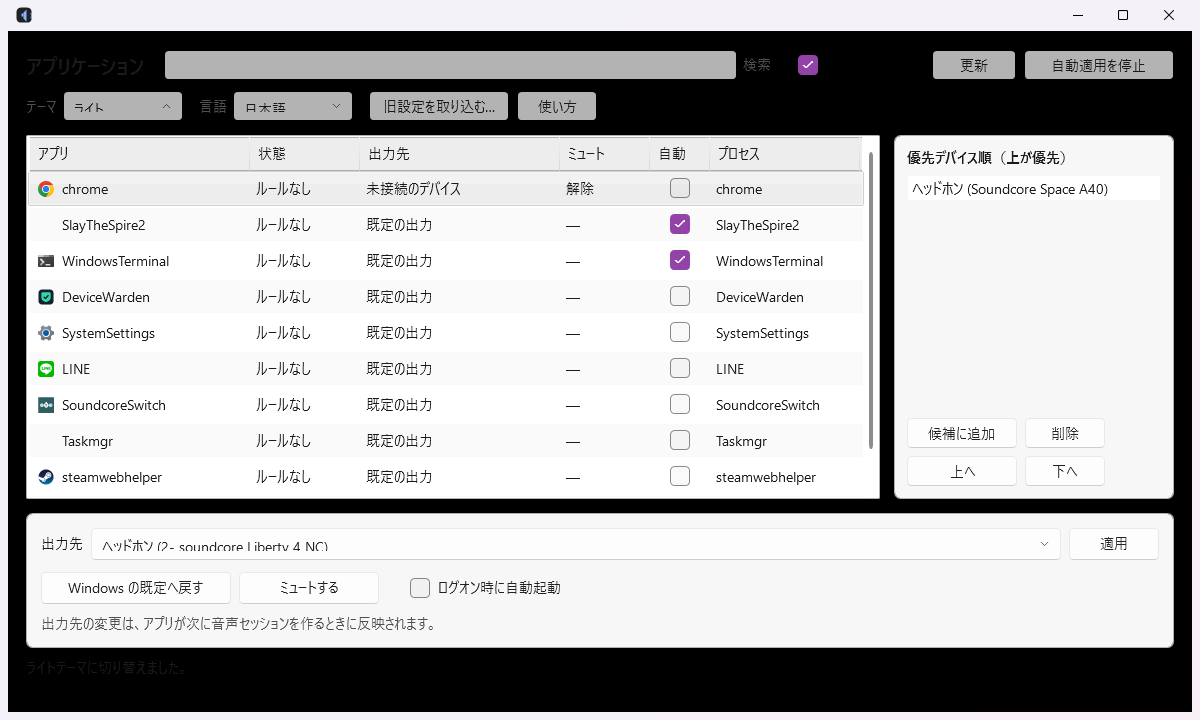
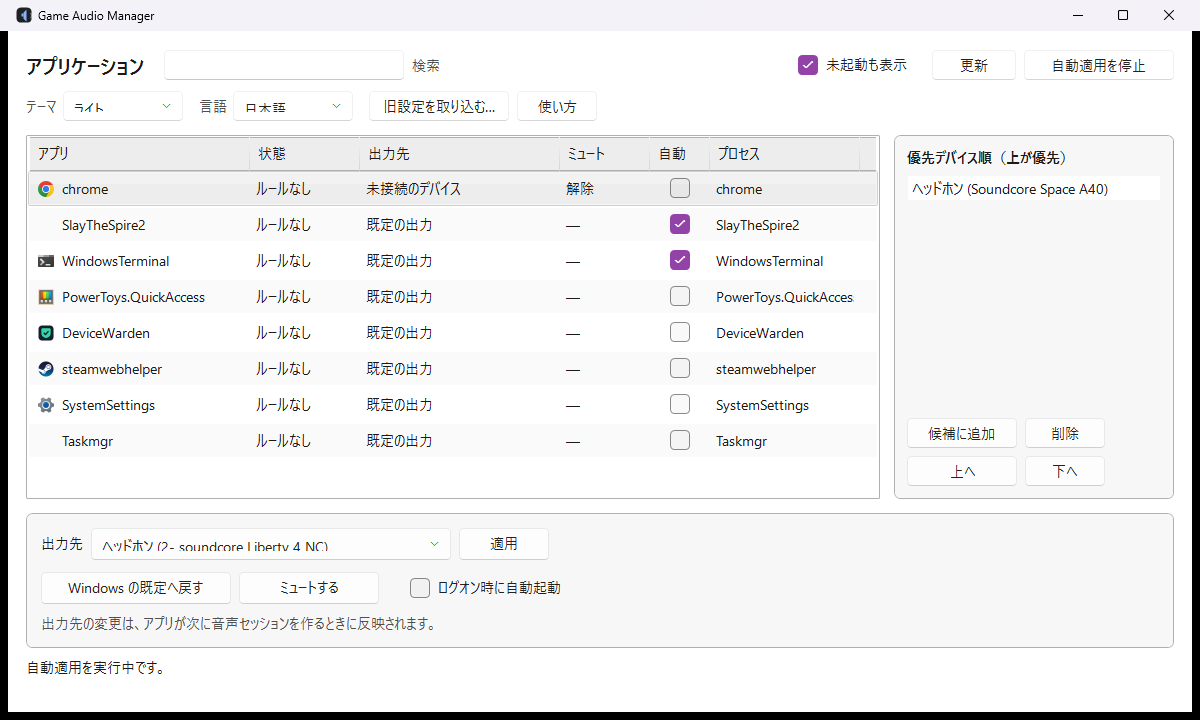
fix: keep the search box and output dropdown at a sane width (#54)

diff --git a/src/GameAudioManager.App/MainWindow.xaml b/src/GameAudioManager.App/MainWindow.xaml
@@ -44,15 +44,17 @@
                        Text="{Binding [Header], Source={x:Static app:Localization.Instance}}"
                        FontSize="20" FontWeight="SemiBold" VerticalAlignment="Center" />
 
-            <DockPanel Grid.Row="0" Grid.Column="1" Margin="20,0,0,0" LastChildFill="True">
-                <TextBlock DockPanel.Dock="Right" VerticalAlignment="Center" Margin="6,0,0,0"
-                           Foreground="{DynamicResource AppSubtleBrush}"
-                           Text="{Binding [Search], Source={x:Static app:Localization.Instance}}" />
-                <TextBox x:Name="FilterBox" MinWidth="120" Height="30"
+            <!-- The label sits next to the box; docking it right detached it on wide windows. -->
+            <StackPanel Grid.Row="0" Grid.Column="1" Orientation="Horizontal"
+                        Margin="20,0,0,0" VerticalAlignment="Center">
+                <TextBox x:Name="FilterBox" Width="240" Height="30"
                          VerticalContentAlignment="Center"
                          Text="{Binding FilterText, UpdateSourceTrigger=PropertyChanged}"
                          ToolTip="{Binding [Search], Source={x:Static app:Localization.Instance}}" />
-            </DockPanel>
+                <TextBlock VerticalAlignment="Center" Margin="8,0,0,0"
+                           Foreground="{DynamicResource AppSubtleBrush}"
+                           Text="{Binding [Search], Source={x:Static app:Localization.Instance}}" />
+            </StackPanel>
 
             <StackPanel Grid.Row="0" Grid.Column="2" Orientation="Horizontal" Margin="16,0,0,0">
                 <CheckBox VerticalAlignment="Center"
@@ -201,14 +203,18 @@
 
                 <TextBlock Grid.Row="0" Grid.Column="0" VerticalAlignment="Center" Margin="0,0,8,0"
                            Text="{Binding [OutputLabel], Source={x:Static app:Localization.Instance}}" />
-                <ComboBox Grid.Row="0" Grid.Column="1"
-                          ItemsSource="{Binding Devices}"
-                          SelectedItem="{Binding SelectedDevice, Mode=TwoWay}"
-                          DisplayMemberPath="Name"
-                          Height="32" VerticalContentAlignment="Center" />
-                <ui:Button x:Name="ApplyButton" Grid.Row="0" Grid.Column="2" MinWidth="90" Height="32" Margin="8,0,0,0"
-                           Content="{Binding [Apply], Source={x:Static app:Localization.Instance}}"
-                           Click="OnApply" />
+                <!-- Combo and Apply stay together: stretching them apart looked broken. -->
+                <StackPanel Grid.Row="0" Grid.Column="1" Grid.ColumnSpan="2"
+                            Orientation="Horizontal" VerticalAlignment="Center">
+                    <ComboBox ItemsSource="{Binding Devices}"
+                              SelectedItem="{Binding SelectedDevice, Mode=TwoWay}"
+                              DisplayMemberPath="Name"
+                              MinWidth="240" MaxWidth="520" Width="360"
+                              Height="32" VerticalContentAlignment="Center" />
+                    <ui:Button x:Name="ApplyButton" MinWidth="90" Height="32" Margin="8,0,0,0"
+                               Content="{Binding [Apply], Source={x:Static app:Localization.Instance}}"
+                               Click="OnApply" />
+                </StackPanel>
 
                 <StackPanel Grid.Row="1" Grid.Column="0" Grid.ColumnSpan="3" Orientation="Horizontal" Margin="0,12,0,0">
                     <ui:Button x:Name="ResetButton" MinWidth="190" Height="32"
